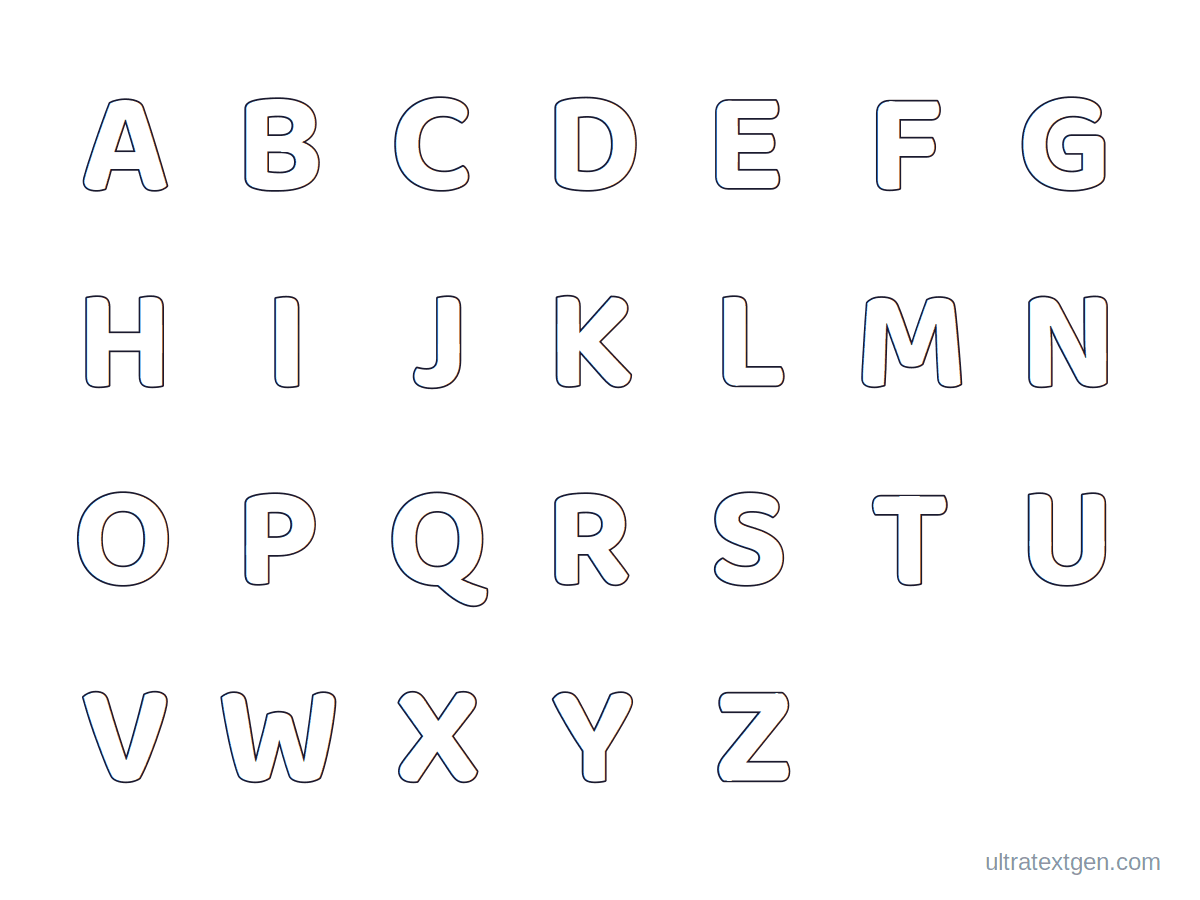
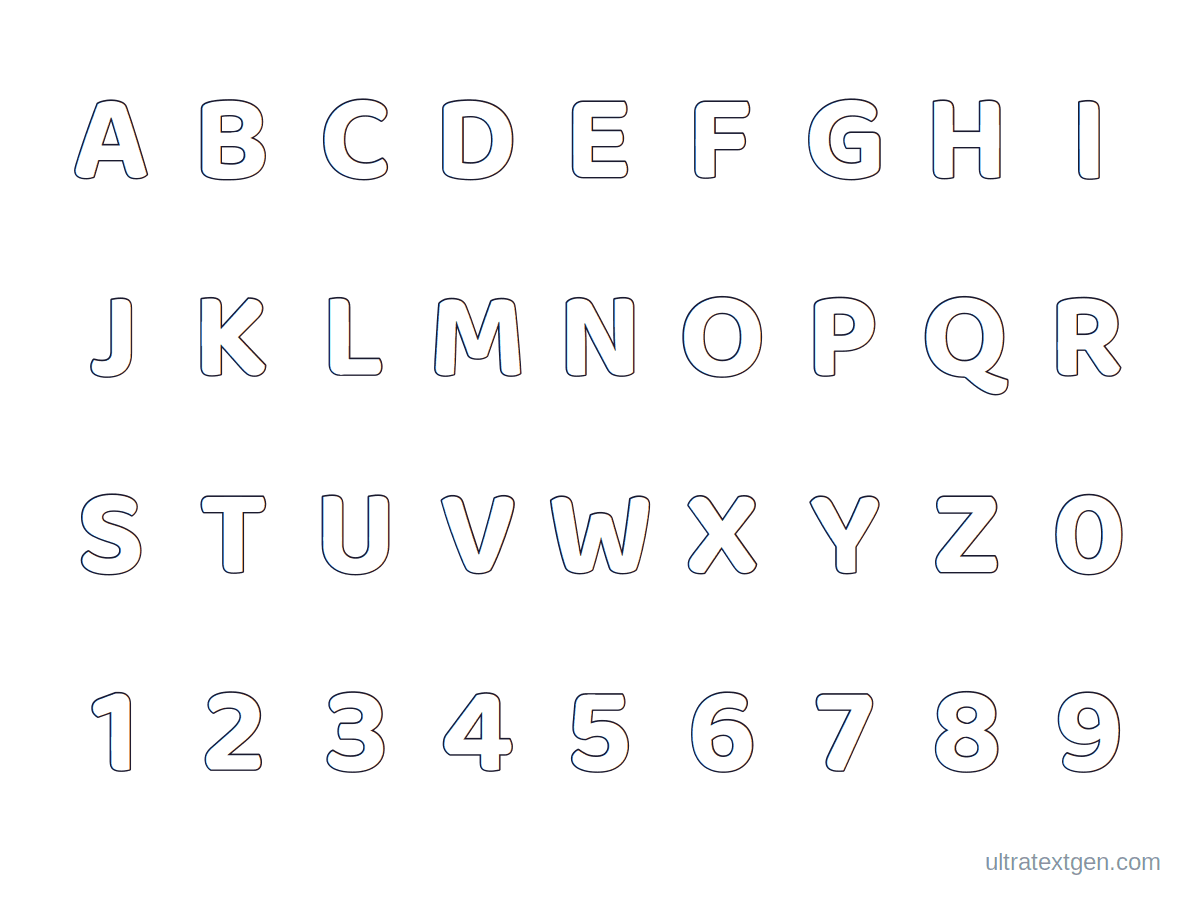
fix(printables): alphabet coloring hub offers the 10 number pages it advertises
The page ships 26 letter spokes AND 10 number spokes (number-0 .. number-9),
links all 36 from its own "A-Z & 0-9 coloring pages" list, and its preview
figure's alt text has always read "A to Z and 0 to 9". Its tool config carried
no `charset`, so printablesEngine defaulted to "alpha": the picker built 26
tiles, the ten number pages had no tile to open them, "Print the alphabet"
stopped at Z, and the preview image rendered a 26-glyph grid in a 7-column
layout, leaving a ragged half-empty final row.

One missing line was the whole cause, and it drove both surfaces: the live
picker reads CFG.charset, and so does generate-printables-previews.py's
alphabet-grid renderer. With charset: "alnum" the picker gains its digit row
(36 tiles, verified in headless Chromium: clicking "7" renders the 7 outline)
and the grid becomes a full 9x4 with no gap.

Picker copy followed the config rather than the other way round: the heading,
intro, strip aria-label and the print-all line said "letter" / "A-Z" / "all 26"
while the section directly below already said "Every letter and number has its
own coloring page". Print-all now covers 36, so the number is corrected too.

Fixed upstream as well as on the page: scripts/generate_alphabet_coloring_pages.py
writes this hub from data/printables_alphabet_coloring.json, so a future
--force-stale run would otherwise put the defect straight back.

The 36 spoke PNGs re-rendered byte-different and visually identical (the known
[…]

diff --git a/printables/alphabet-coloring-pages/index.html b/printables/alphabet-coloring-pages/index.html
@@ -406,11 +406,11 @@ window.__h82AlnkH6D91__("WyJwdWItODI0MjMyNDE2NDQxMzk0NSIsW251bGwsbnVsbCxudWxsLCJ
 
     <!-- Picker + selected-letter detail -->
     <section class="bubble-az" aria-labelledby="ptPickHeading">
-      <h2 class="bubble-az-heading" id="ptPickHeading">Pick a letter to color</h2>
-      <p class="bubble-az-intro">Tap any letter A–Z to see its big coloring outline, print it, or download a PNG. Want the letter's own page with an example word? Open it from the A–Z list below.</p>
-      <div class="bubble-strip" id="pt-strip" role="tablist" aria-label="Choose a letter to color"></div>
+      <h2 class="bubble-az-heading" id="ptPickHeading">Pick a letter or number to color</h2>
+      <p class="bubble-az-intro">Tap any letter A–Z, or any number 0–9, to see its big coloring outline, print it, or download a PNG. Want that character's own page with an example word? Open it from the A–Z &amp; 0–9 list below.</p>
+      <div class="bubble-strip" id="pt-strip" role="tablist" aria-label="Choose a letter or number to color"></div>
       <div class="bubble-letter-panel" id="pt-panel" aria-live="polite"></div>
-      <p class="bubble-az-intro">Want the whole alphabet? Print all 26 coloring outlines at once: as one sheet, or as a book with one letter per page (choose “Save as PDF” in the print dialog to make a workbook).</p>
+      <p class="bubble-az-intro">Want the whole set? Print all 36 coloring outlines at once, A–Z plus 0–9: as one sheet, or as a book with one character per page (choose “Save as PDF” in the print dialog to make a workbook).</p>
       <div class="pt-size-field">
         <p class="pt-size-field-label">Print size</p>
         <div id="pt-size-control"></div>
@@ -683,6 +683,11 @@ window.__h82AlnkH6D91__("WyJwdWItODI0MjMyNDE2NDQxMzk0NSIsW251bGwsbnVsbCxudWxsLCJ
       pngPrefix: "coloring",
       font: "'Baloo 2', 'Plus Jakarta Sans', sans-serif",
       strokeWidth: 4,
+      // This page ships 26 letter spokes AND 10 number spokes (number-0 .. number-9)
+      // and links all 36 from its own A-Z list. Without this the picker built only
+      // the 26 letters, so the ten number pages it advertises had no tile to open
+      // them and the page's own preview image showed an alphabet it does not stop at.
+      charset: "alnum",
     };
   </script>
   <script src="/styles.js" defer></script>

diff --git a/scripts/generate_alphabet_coloring_pages.py b/scripts/generate_alphabet_coloring_pages.py
@@ -320,7 +320,10 @@ def render_hub(spec):
         [ldjson(breadcrumb), ldjson(collection_ld), ldjson(faqpage_ld(faqs))]
     )
 
-    config = config_script(cfg)
+    # The hub ships 26 letter spokes AND 10 number spokes and links all 36 from
+    # its own list, so its picker has to offer the digits too. Without this the
+    # engine defaults to "alpha" and the ten number pages have no tile.
+    config = config_script(cfg, extra_lines=['      charset: "alnum",'])
 
     return f"""<!DOCTYPE html><html lang="en"><head>
 {funding_choices_tag()}
@@ -373,9 +376,9 @@ def render_hub(spec):
 
     <!-- Picker + selected-letter detail -->
     <section class="bubble-az" aria-labelledby="ptPickHeading">
-      <h2 class="bubble-az-heading" id="ptPickHeading">Pick a letter to color</h2>
-      <p class="bubble-az-intro">Tap any letter A–Z to see its big coloring outline, print it, or download a PNG. Want the letter's own page with an example word? Open it from the A–Z list below.</p>
-      <div class="bubble-strip" id="pt-strip" role="tablist" aria-label="Choose a letter to color"></div>
+      <h2 class="bubble-az-heading" id="ptPickHeading">Pick a letter or number to color</h2>
+      <p class="bubble-az-intro">Tap any letter A–Z, or any number 0–9, to see its big coloring outline, print it, or download a PNG. Want that character's own page with an example word? Open it from the A–Z &amp; 0–9 list below.</p>
+      <div class="bubble-strip" id="pt-strip" role="tablist" aria-label="Choose a letter or number to color"></div>
       <div class="bubble-letter-panel" id="pt-panel" aria-live="polite"></div>
     </section>
 
